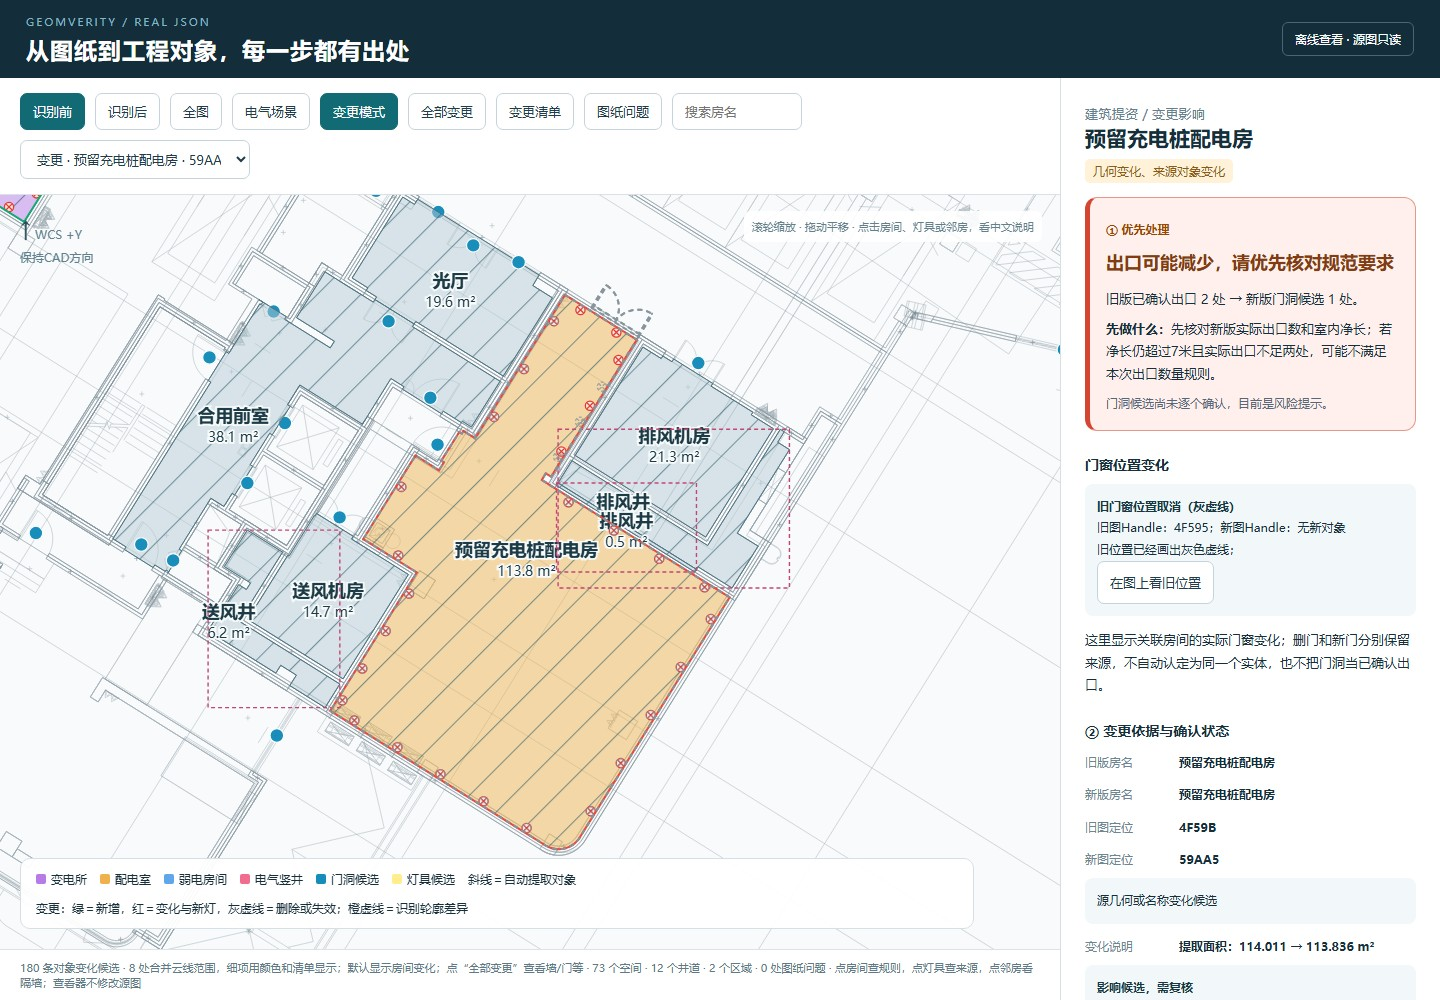
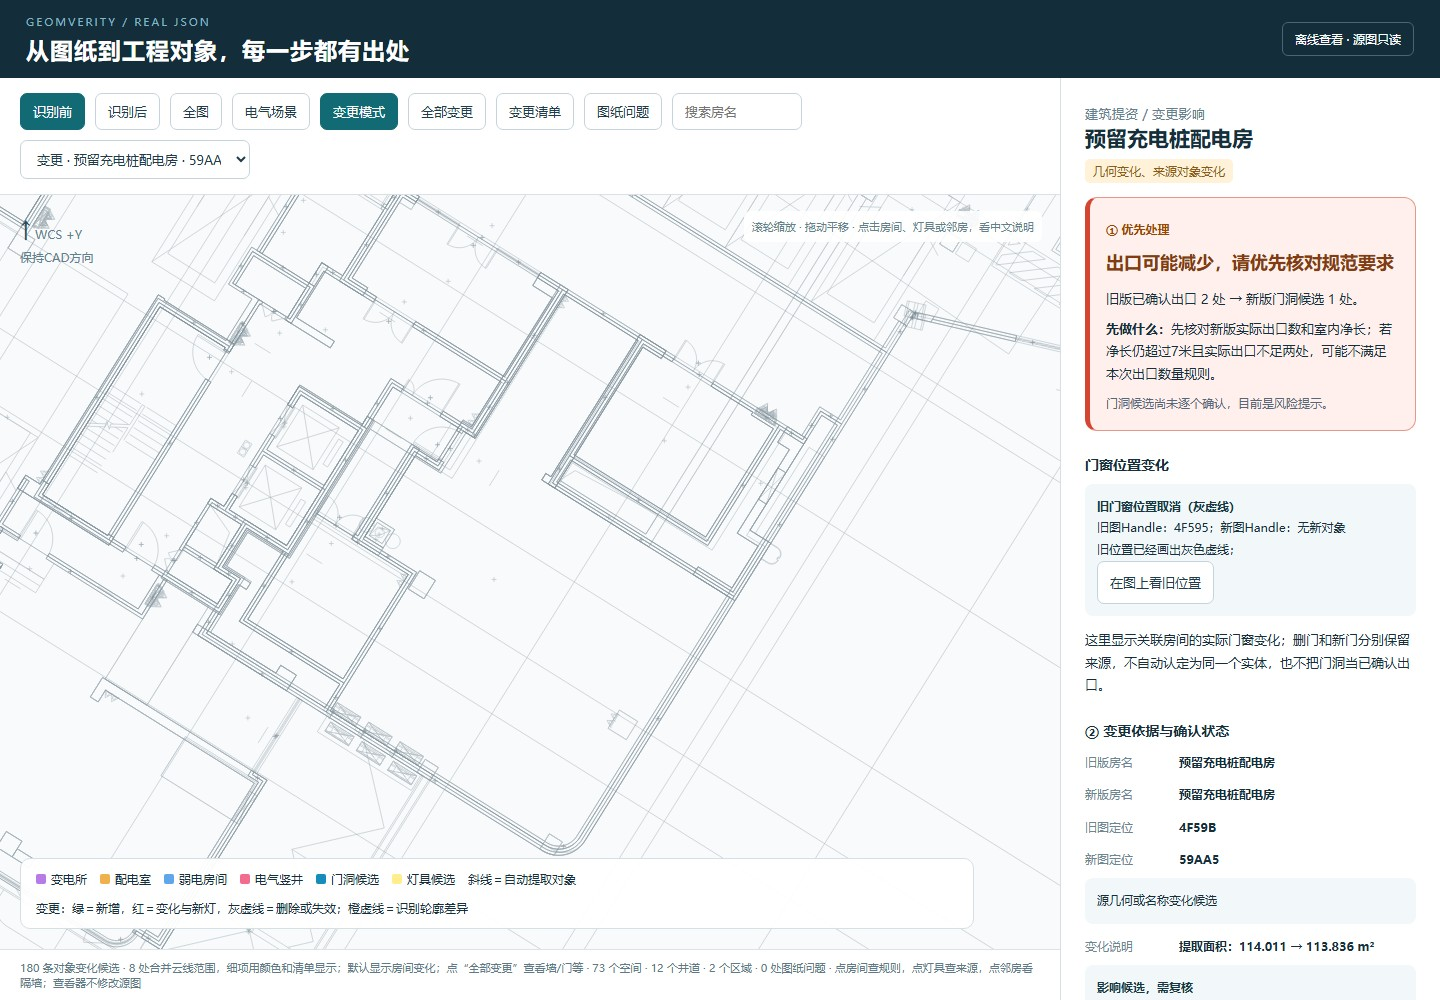
完善发布证据与运行要求

Changed region(s): [[0.0625, 0.186, 0.5625, 0.868], [0.0, 0.186, 0.0312, 0.217]]

diff --git a/python/cst/decisions.py b/python/cst/decisions.py
@@ -8,7 +8,7 @@ from .model import load,L1,L2,L3,FILENAMES
 from .naming import digest
 from .priority import finding_rank,room_priorities
 ROOT=Path(__file__).resolve().parents[2]
-ENGINE_VERSION='0.3.0.dev0'
+ENGINE_VERSION='0.3.0'
 
 def object_fingerprint(obj):
     return digest({'type':obj.type,'name':obj.raw_label,'use':obj.use_code,'status':obj.status,'geometry':obj.geometry.model_dump()})

diff --git a/README.md b/README.md
@@ -55,15 +55,15 @@ python -m cst.demo
 | 可追溯决策 | 输入、规则、模型与人工确认记录；证据包哈希核验 | [证据包验收](docs/acceptance/evidence.md) |
 | SDK/MCP | SDK核心调用与七个只读MCP工具 | [接口验收](docs/acceptance/interfaces.md) |
 
-术语实验在49个已标注名称上与人工一级类别一致35/49；这不是整图识别准确率。[样本与不一致明细](eval/llm_naming.md)。
+实际模型返回112个去重房名。原关键词未覆盖的46种名称中，模型为42种提出可审核类别，4种保留UNKNOWN；采纳数量待人工审核。49种人工名称的35/49一致对照保留在详细评测中。[样本与不一致明细](eval/llm_naming.md)。
 
 首次冻结的8项改图对照为6项对应、1项部分、1项不一致；人工记录房名笔误更正后为7项对应、1项部分。
 
 ## 运行要求
 
-Python 3.11+、64位系统。512MB沙盒中的完整demo、check和全量测试曾因内存不足中断，不支持以512MB作为完整演示配置。实测峰值、耗时和建议内存见[运行测量](eval/runtime.md)。已生成的离线HTML可直接用浏览器打开，无需在本机重算。
+Python 3.11+、64位系统。完整演示建议至少8GB整机内存、运行前可用内存至少5GB；CAD和浏览器并行建议16GB。Windows完整演示本次340.359秒、峰值3873.98MiB；Ubuntu本次384.27秒、峰值4102.84MiB。512MB沙盒中的完整demo、check和全量测试曾因内存不足中断，不支持以512MB作为完整演示配置。实测峰值、耗时和建议内存见[运行测量](eval/runtime.md)。已生成的离线HTML可直接用浏览器打开，无需在本机重算。
 
-缩减运行范围可用 `python -m cst.demo --changes-only`，只执行A→A-change链路，跳过A/B独立报告及问答/草案全组重放；它不承诺能在512MB内完成。
+缩减运行范围可用 `python -m cst.demo --changes-only`，只执行A→A-change链路，跳过A/B独立报告及问答/草案全组重放；实测峰值仍接近4GB，不适合512MB环境。
 
 ## 使用接口
 
@@ -92,6 +92,6 @@ python -m unittest discover -s python/tests -v
 
 ## 维护与许可
 
-著作权人、原作者及维护者：张田。其他贡献者和第三方保留各自权利。自有代码使用[MPL-2.0](LICENSE)，依赖见[NOTICE](NOTICE)。[维护](docs/guides/maintenance.md) · [路线图](docs/architecture/roadmap.md) · [安全报告](SECURITY.md)。
+著作权人、原作者及维护者：张田。其他贡献者和第三方保留各自权利。自有代码使用[MPL-2.0](LICENSE)，依赖见[NOTICE](NOTICE)。[维护](docs/guides/maintenance.md) · [路线图](docs/architecture/roadmap.md) · [安全报告](SECURITY.md) · [治理角色](GOVERNANCE.md)。
 
 GeomVerity combines deterministic geometry processing, constrained LLM proposals, engineering rules and traceable decision records. It supports CAD snapshot analysis, version comparison and auditable engineering assistance.

diff --git a/eval/runtime.md b/eval/runtime.md
@@ -1,3 +1,18 @@
 # 运行内存与耗时
 
-实测待写入，Windows和Ubuntu分别记录同一代码及输入。峰值为进程RSS，不能直接当作整机最低内存；512MB完整演示曾在外部沙盒中断。
+|平台|命令范围|耗时|峰值进程RSS|结果|
+|---|---|---:|---:|---|
+|Windows|full|340.359秒|3873.98MiB|退出码0|
+|Windows|changes-only|182.717秒|3867.25MiB|退出码0|
+|Ubuntu / Python 3.11|full|384.27秒|4102.84MiB|退出码0|
+|Ubuntu / Python 3.11|changes-only|182.84秒|4100.81MiB|退出码0|
+
+测量输入为公开A/B/A-change，测量代码提交c853a35。Windows/Python 3.13.4以50ms间隔采样单进程RSS；Ubuntu/Python 3.11使用GNU time -v记录峰值。安装、CAD与浏览器不计入。两平台各单次运行，不能据此推断所有图纸规模。
+
+完整演示建议64位系统、至少8GB整机内存，运行前可用内存至少5GB；CAD和浏览器并行建议16GB。这是按实测给出的配置建议，尚未寻找精确最低边界。512MB外部沙盒的demo/check/全量测试曾中断。
+
+**缩减范围节省时间，未显著降低峰值内存。** `python -m cst.demo --changes-only`跳过A/B独立输出和全组AI重放，但仍重算A到A-change的几何、规则和证据。512MB环境应使用预生成HTML或Pages，不建议执行重算。
+
+[Ubuntu实测及验收](https://github.com/paigu3571/GeomVerity/actions/runs/38499689728)。机器配置、后台负载和软件版本会影响耗时。
+
+峰值不代表常驻内存。正式版0.3.0仅将决策版本元数据从dev0更新为0.3.0；上述运行时数字保留实际测量提交，不伪装成新一轮测量。

diff --git a/docs/acceptance/release.md b/docs/acceptance/release.md
@@ -12,3 +12,7 @@ python scripts/scan_secrets.py
 预期：既有测试通过；生成dist/demo/changes/semantic_view.html及通知、证据包；安全检查0项。打开HTML查看删门风险、贴邻风险和灯具证据。
 
 内存不足时直接打开Release离线演示包中的HTML，不要求重算。出现其他错误时保留命令及末尾输出提交Issue，不修改冻结快照或哈希来绕过检查。CAD扫描仍需合法宿主；本次不覆盖生产DLL。
+
+## 本次结果
+
+Python既有85项通过，C#核心69项通过。Ubuntu CI、Pages均已通过；具体记录见eval/runtime.md。源码元数据版本变动后运行既有Python回归，结果以工作流为准。源图字节未核验单列，不算设计通过。

diff --git a/docs/images/README.md b/docs/images/README.md
@@ -1,0 +1,7 @@
+# 演示图像
+
+图像来自公开A到A-change数据生成的真实离线查看器，后台无界面Chrome截图。notice.jpg为真实缓存重放通知正文的阅读排版。
+
+viewer-default、door-risk、water-risk、lamp-evidence、notice为五个审阅画面。recognition-before/recognition展示切换前后；demo.gif由五个真实截图顺序播放，单次10秒，不是实时速度录像。
+
+GIF使用Pillow生成，工具说明：https://pillow.readthedocs.io/en/stable/handbook/image-file-formats.html 。图像不包含原DWG或私人CAD窗口。
